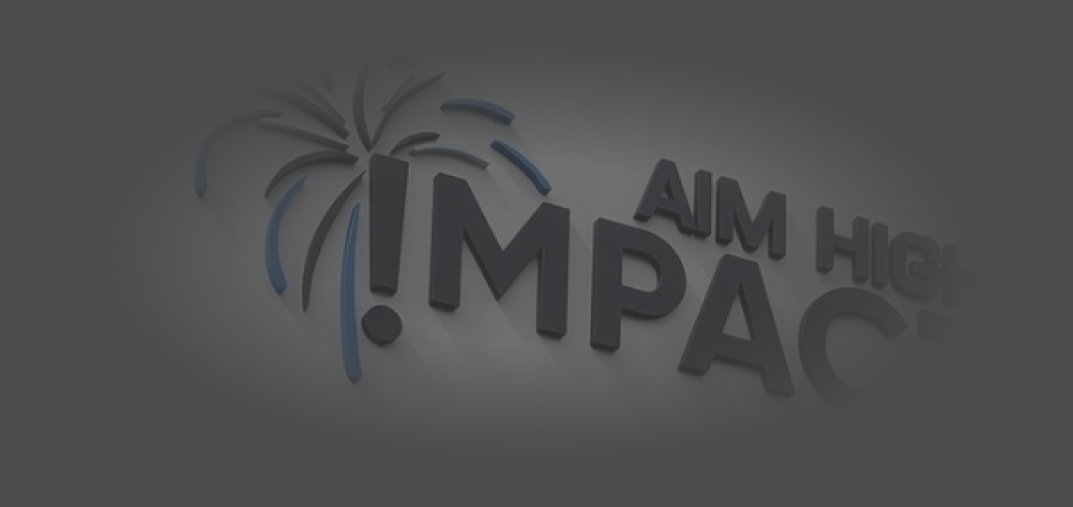
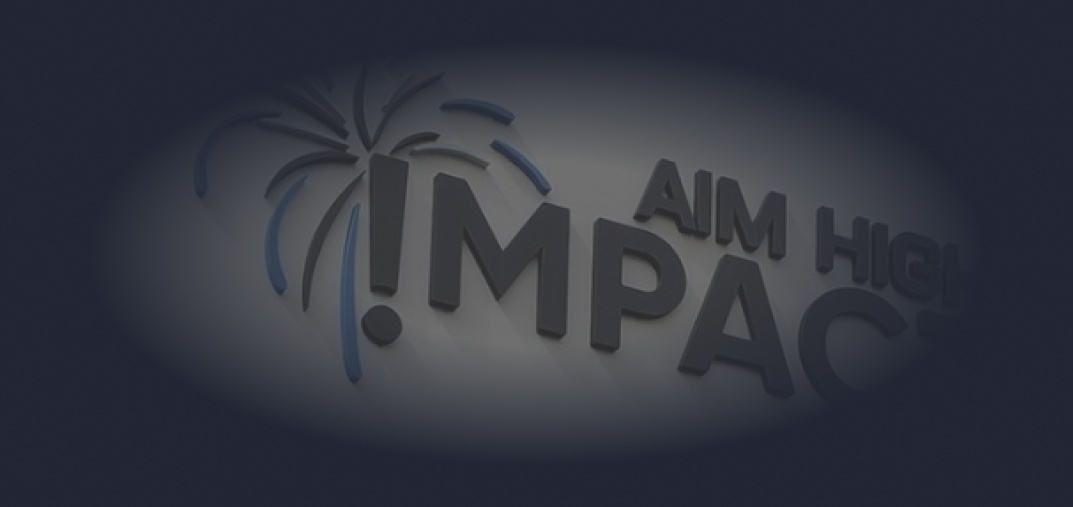
Add files via upload

diff --git a/src/Components/movingImg.svelte b/src/Components/movingImg.svelte
@@ -9,18 +9,19 @@
     let mainPg = "images/Animations/Main-Page-Animation-Ver-2.gif";
     let peerPrgm = "images/Animations/Peer-Program-Icon.gif";
     let whatImpact = "images/Animations/What-is-Impact-Banner.gif";
+
 </script>
 <section id="scrollLeft">
-    <img id="bxOne" src="{bxOne}" alt="">
-    <img id="bxTwo" src="{bxTwo}" alt="">
-    <img id="contact" src="{contact}" alt="">
-    <img id="decProb" src="{decProb}" alt="">
-    <img id="improvAttn" src="{improvAttn}" alt="">
-    <img id="increaseLng" src="{increaseLng}" alt="">
-    <img id="edge" src="{edge}" alt="">
-    <img id="mainPg" src="{mainPg}" alt="">
-    <img id="peerPrgm" src="{peerPrgm}" alt="">
-    <img id="whatImpact" src="{whatImpact}" alt="">
+    <img id="bxOne" class="play pause" src="{bxOne}" alt="">
+    <img id="bxTwo" class="play pause" src="{bxTwo}" alt="">
+    <img id="contact" class="play pause" src="{contact}" alt="">
+    <img id="decProb" class="play pause" src="{decProb}" alt="">
+    <img id="improvAttn" class="play pause" src="{improvAttn}" alt="">
+    <img id="increaseLng" class="play pause" src="{increaseLng}" alt="">
+    <img id="edge" class="play pause" src="{edge}" alt="">
+    <img id="mainPg" class="play pause" src="{mainPg}" alt="">
+    <img id="peerPrgm" class="play pause" src="{peerPrgm}" alt="">
+    <img id="whatImpact" class="play pause" src="{whatImpact}" alt="">
 </section>
 
 <style>

diff --git a/src/routes/about.svelte b/src/routes/about.svelte
@@ -1,6 +1,6 @@
 <script>
     import Nav from "../Components/nav.svelte";
-    let planetsOrbit = "images/About Page/Planetary Orbit.png";
+    let planetsOrbit = "images/About Page/Rings.png";
     let about = "images/About Page/Planets/About.png"
     let animation = "images/About Page/Planets/Animation.png"
     let articles = "images/About Page/Planets/Articles.png"
@@ -135,6 +135,7 @@
     background: #222634;
     height: 100%;
     grid-template-columns: 15% 85%;
+    cursor: url("images/Circle Cursor.png"), auto;
 }
 h1, p {
     font-family: 'PT Sans Narrow', sans-serif;

diff --git a/src/routes/graphics.svelte b/src/routes/graphics.svelte
@@ -17,11 +17,12 @@
         #graphicsPage {
             display: grid;
             height: 100vh;
-            background: #4B4B4B;
+            background: #222634;
             background-size: cover;
             background-repeat: no-repeat;
             background-position: right;
             grid-template-columns: 15% 85%;
+            cursor: url("images/Circle Cursor.png"), auto;
         }
         #graphicsSection {
             overflow-y: scroll;

diff --git a/src/routes/animations.svelte b/src/routes/animations.svelte
@@ -22,6 +22,7 @@
 
 <style>
     @import url('https://fonts.googleapis.com/css2?family=PT+Sans+Narrow&display=swap');
+
     #animations {
         display: grid;
         background-size: cover;
@@ -29,6 +30,7 @@
         height: 100vh;
         grid-template-columns: 15% 85%;
         font-family: 'PT Sans Narrow', sans-serif;
+        cursor: url("images/Circle Cursor.png"), auto;
     }
     #animationSection {
         height: 100vh;

diff --git a/src/Components/nav.svelte b/src/Components/nav.svelte
@@ -24,11 +24,13 @@
     nav a {
         color: white;
         text-decoration: none;
+        cursor: url("images/Circle Cursor.png"), auto;
     }
     nav a:hover {
         text-decoration: underline;
         animation-name: spazz;
         animation-duration: 0.3s;
+        cursor: url("images/Circle Cursor.png"), auto;
     }
     #articles {
         display: none;

diff --git a/src/routes/websites.svelte b/src/routes/websites.svelte
@@ -24,10 +24,11 @@
     #websites {
     display: grid;
     background-size: cover;
-    background: #4B4B4B;
+    background: #222634;
     height: 100vh;
     grid-template-columns: 15% 85%;
     font-family: 'PT Sans Narrow', sans-serif;
+    cursor: url("images/Circle Cursor.png"), auto;
     }
     #websiteSections {
         overflow-y: scroll;

diff --git a/src/routes/contact.svelte b/src/routes/contact.svelte
@@ -44,10 +44,11 @@
 #contactPage {
     display: grid;
     background-size: cover;
-    background: #353535;
+    background: #222634;
     height: 100vh;
     grid-template-columns: 15% 85%;
     font-family: 'PT Sans Narrow', sans-serif;
+    cursor: url("images/Circle Cursor.png"), auto;
 }
 #contactMain {
     display: grid;

diff --git a/src/routes/index.svelte b/src/routes/index.svelte
@@ -39,6 +39,7 @@
         background-color: #222634;
         height: 100%;
         grid-template-columns: 15% 85%;
+        cursor: url("images/Circle Cursor.png"), auto;
     }
     section {
         font-family: 'PT Sans Narrow', sans-serif;
